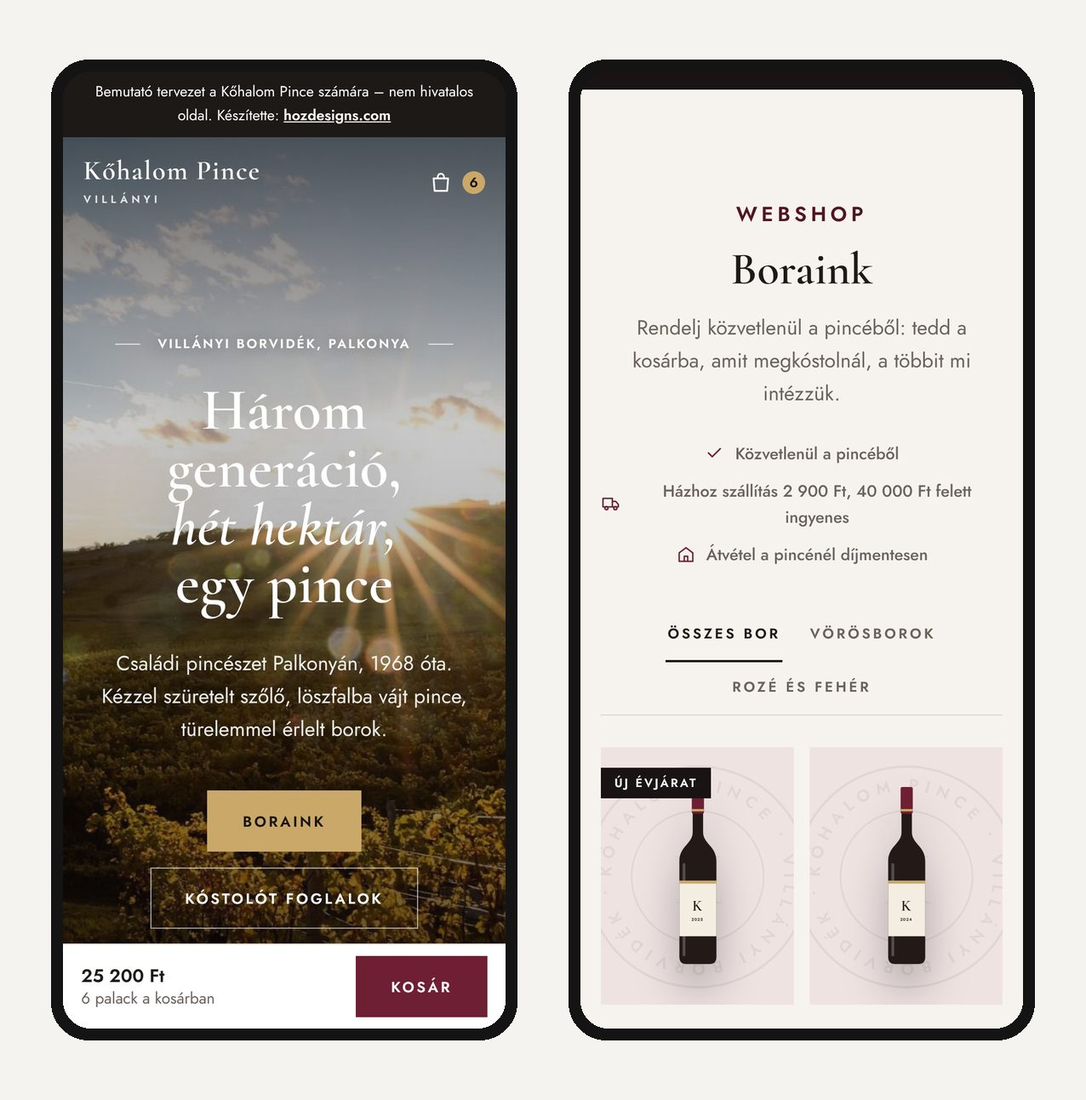
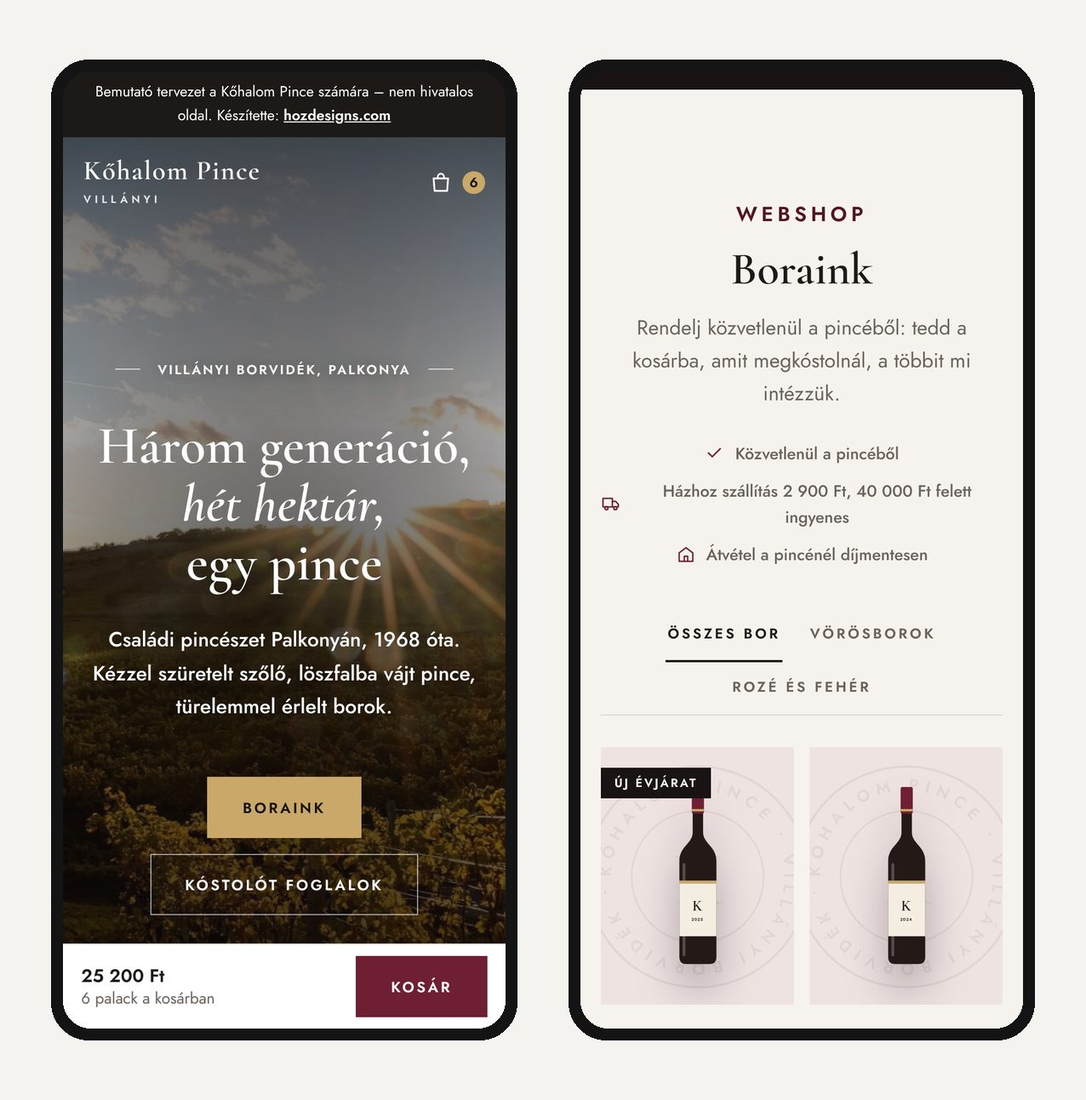
teszt-boraszat: nyitó térközei, térkép a kapcsolatnál, rendezett lábléc
Claude-Session: https://claude.ai/code/session_016Run1nACTgNtgLbjaBZxC9

Changed region(s): [[0.0306, 0.1856, 0.489, 0.8662], [0.0917, 0.7115, 0.1223, 0.7425]]

diff --git a/minta/teszt-boraszat/index.html b/minta/teszt-boraszat/index.html
@@ -159,19 +159,19 @@ footer b{color:var(--ink)}
 .bhead.solid .logo b{font-size:25px}
 
 /* nyitókép */
-.hero{position:relative;display:grid;place-items:center;text-align:center;min-height:max(100svh,700px);margin-top:-91px;padding:150px 24px 120px;color:#fff;isolation:isolate;overflow:hidden;background:var(--dark)}
+.hero{position:relative;display:grid;place-items:center;text-align:center;min-height:max(100svh,700px);margin-top:-91px;padding:170px 24px 130px;color:#fff;isolation:isolate;overflow:hidden;background:var(--dark)}
 .hero .bg{position:absolute;inset:0;z-index:-2}
 .hero .bg img{width:100%;height:100%;object-fit:cover;object-position:var(--pos,center);transform-origin:var(--pos,center);animation:hzoom 24s cubic-bezier(.2,.6,.3,1) both}
 @keyframes hzoom{from{transform:scale(1.14)}to{transform:scale(1)}}
-.hero::before{content:"";position:absolute;inset:0;z-index:-1;background:linear-gradient(180deg,rgba(12,9,8,.62) 0%,rgba(12,9,8,.22) 30%,rgba(12,9,8,.34) 62%,rgba(12,9,8,.82) 100%)}
+.hero::before{content:"";position:absolute;inset:0;z-index:-1;background:radial-gradient(75% 62% at 50% 54%,rgba(12,9,8,.5) 0%,rgba(12,9,8,.28) 55%,transparent 100%),linear-gradient(180deg,rgba(12,9,8,.66) 0%,rgba(12,9,8,.26) 30%,rgba(12,9,8,.36) 62%,rgba(12,9,8,.84) 100%)}
 .hero .c{max-width:1040px}
 .hero .lbl{display:inline-flex;align-items:center;gap:16px;color:#fff;text-shadow:0 1px 14px rgba(0,0,0,.5)}
 .hero .lbl::before,.hero .lbl::after{content:"";width:44px;height:1px;background:currentColor;opacity:.7}
-.hero h1{font-size:clamp(52px,8.4vw,132px);line-height:.98;margin-top:26px;text-wrap:balance;text-shadow:0 2px 50px rgba(0,0,0,.45)}
+.hero h1{font-size:clamp(46px,min(7.4vw,12.5vh),118px);line-height:1.08;margin-top:34px;text-wrap:balance;text-shadow:0 2px 50px rgba(0,0,0,.5)}
 .hero h1 span{display:block}
 .hero h1 .it{font-style:italic}
-.hero .lead{font-size:clamp(18px,1.6vw,21px);max-width:50ch;margin:30px auto 0;color:rgba(255,255,255,.92)}
-.hero .cta{display:flex;flex-wrap:wrap;justify-content:center;gap:14px;margin-top:40px}
+.hero .lead{font-size:clamp(18px,1.6vw,21px);line-height:1.65;font-weight:500;max-width:46ch;margin:40px auto 0;color:#fff;text-shadow:0 1px 18px rgba(0,0,0,.65)}
+.hero .cta{display:flex;flex-wrap:wrap;justify-content:center;gap:14px;margin-top:46px}
 .hero .c>*{animation:hrise 1s cubic-bezier(.2,.7,.2,1) both}
 .hero .c>*:nth-child(2){animation-delay:.15s}.hero .c>*:nth-child(3){animation-delay:.32s}.hero .c>*:nth-child(4){animation-delay:.46s}
 @keyframes hrise{from{opacity:0;transform:translateY(30px)}to{opacity:1;transform:none}}
@@ -369,14 +369,21 @@ footer b{color:var(--ink)}
 .k-bor .hours td{padding:13px 0}
 
 /* lábléc */
-.bfoot{background:var(--dark);color:rgba(255,255,255,.75);margin-top:70px;padding:80px 0 110px;font-size:15px}
-.bfoot .seal{width:96px;height:96px;color:var(--gold);margin:0 auto}
-.bfoot .name{text-align:center;font:var(--fhw) 34px/1 var(--fh);color:#fff;margin-top:20px}
-.bfoot .cols{display:grid;grid-template-columns:repeat(3,minmax(0,1fr));gap:40px;margin-top:56px;padding-top:44px;border-top:1px solid rgba(255,255,255,.16)}
-.bfoot h4{font:600 11.5px var(--fb);letter-spacing:.2em;text-transform:uppercase;color:var(--gold);margin-bottom:14px}
-.bfoot a{color:#fff}
-.bfoot ul{list-style:none;margin:0;padding:0;display:grid;gap:8px}
-.bfoot .legal{display:flex;flex-wrap:wrap;justify-content:space-between;gap:10px 30px;margin-top:50px;font-size:13px;color:rgba(255,255,255,.55)}
+.bfoot{background:var(--dark);color:rgba(255,255,255,.72);margin-top:90px;padding:88px 0 0;font-size:15px;border-top:0}
+.bfoot .wrap{display:block}
+.bfoot .cols{display:grid;grid-template-columns:1.5fr 1fr 1fr .8fr;gap:56px;align-items:start}
+.bfoot .id{display:grid;grid-template-columns:92px 1fr;gap:22px;align-items:center}
+.bfoot .seal{width:92px;height:92px;color:var(--gold);margin:0}
+.bfoot .name{font:var(--fhw) 32px/1.05 var(--fh);color:#fff;margin:0;text-align:left}
+.bfoot .tag{margin-top:8px;font:600 11px var(--fb);letter-spacing:.24em;text-transform:uppercase;color:rgba(255,255,255,.6)}
+.bfoot h4{font:600 11.5px var(--fb);letter-spacing:.2em;text-transform:uppercase;color:var(--gold);margin:6px 0 18px}
+.bfoot a{color:#fff;text-decoration:none;border-bottom:1px solid rgba(255,255,255,.3)}
+.bfoot a:hover{border-color:#fff}
+.bfoot ul{list-style:none;margin:0;padding:0;display:grid;gap:10px;line-height:1.5}
+.bfoot .hrs li{display:flex;justify-content:space-between;gap:16px;max-width:230px}
+.bfoot .hrs li span:last-child{color:#fff;font-variant-numeric:tabular-nums}
+.bfoot .legal{display:flex;flex-wrap:wrap;justify-content:space-between;gap:8px 30px;margin-top:72px;padding:24px 0 30px;border-top:1px solid rgba(255,255,255,.14);font-size:13px;color:rgba(255,255,255,.5)}
+.bfoot .legal a{color:rgba(255,255,255,.75)}
 
 /* 18+ kapu */
 .gate{position:fixed;inset:0;z-index:95;display:grid;place-items:center;padding:24px;background:color-mix(in srgb,var(--dark) 88%,transparent);-webkit-backdrop-filter:blur(10px);backdrop-filter:blur(10px)}
@@ -436,7 +443,9 @@ footer b{color:var(--ink)}
   .bhead nav.r a{display:none}
   .logo{justify-items:start}.logo b{font-size:24px}.logo small{font-size:9.5px}
   .cartbtn .t{display:none}
-  .hero{margin-top:-80px;padding:130px 20px 110px;min-height:max(100svh,640px)}
+  .hero{margin-top:-80px;padding:140px 20px 110px;min-height:max(100svh,640px)}
+  .hero h1{font-size:clamp(42px,12vw,64px);line-height:1.1}
+  .hero .lead{margin-top:28px}
   .hero .seal{display:none}
   .hero .lbl{letter-spacing:.14em;font-size:11.5px}
   .hero .lbl::before,.hero .lbl::after{width:22px}
@@ -455,8 +464,11 @@ footer b{color:var(--ink)}
   .tbook{grid-template-columns:1fr;gap:32px;padding:26px 18px}
   .estate{grid-template-columns:1fr;gap:40px;padding-top:80px}
   .ggrid{grid-template-columns:repeat(2,minmax(0,1fr));grid-auto-rows:150px;gap:8px}
-  .bfoot .cols{grid-template-columns:1fr;gap:30px;text-align:center}
-  .bfoot{padding-top:60px}
+  .bfoot{padding-top:60px;margin-top:60px}
+  .bfoot .cols{grid-template-columns:1fr 1fr;gap:40px 24px}
+  .bfoot .id{grid-column:1/-1;grid-template-columns:76px 1fr}.bfoot .seal{width:76px;height:76px}
+  .bfoot .cols>div:nth-child(2){grid-column:1/-1}
+  .bfoot .legal{flex-direction:column;margin-top:48px;padding-bottom:110px}
   .tl{grid-template-columns:1fr;gap:16px;padding:32px 0}.tl .y{font-size:50px}
   .person{grid-template-columns:1fr;gap:26px}.person:nth-of-type(even) .ph{order:0}.person .ph{max-width:360px}.person h3{font-size:38px}
   .prose{padding-top:64px}.prose p{font-size:18px}
@@ -464,6 +476,22 @@ footer b{color:var(--ink)}
   .endcta{padding-top:80px}
   .gate h2{font-size:36px}
 }
+/* térkép: csak kattintásra tölt be */
+.mapbox{position:relative;margin-top:56px;height:440px;background:var(--acct);overflow:hidden;display:grid;place-items:center;text-align:center}
+.mapbox::before{content:"";position:absolute;inset:0;opacity:.5;background:
+  linear-gradient(115deg,transparent 46%,var(--line) 46%,var(--line) 47.2%,transparent 47.2%),
+  linear-gradient(28deg,transparent 58%,var(--line) 58%,var(--line) 59%,transparent 59%),
+  linear-gradient(160deg,transparent 30%,var(--line) 30%,var(--line) 30.8%,transparent 30.8%),
+  linear-gradient(75deg,transparent 70%,var(--line) 70%,var(--line) 70.7%,transparent 70.7%)}
+.mapbox .in{position:relative;max-width:640px;padding:24px}
+.mapbox .ico{width:38px;height:38px;color:var(--acc);margin:0 auto}
+.mapbox b{display:block;font:var(--fhw) 30px/1.15 var(--fh);margin-top:12px}
+.mapbox .row{display:flex;flex-wrap:wrap;justify-content:center;gap:10px;margin-top:22px}
+.mapbox .btn.line{border-color:var(--ink)}
+.mapbox small{display:block;color:var(--ink2);font-size:13px;margin:16px auto 0;line-height:1.5;max-width:46ch}
+.mapbox iframe{position:absolute;inset:0;width:100%;height:100%;border:0}
+@media (max-width:900px){.mapbox{height:380px;margin-top:40px}}
+@media (max-height:780px) and (min-width:901px){.hero{padding-top:150px;padding-bottom:96px}.hero h1{margin-top:22px}.hero .lead{margin-top:26px}.hero .cta{margin-top:30px}.hero .cue{display:none}}
 </style>
 </head>
 <body class="k-bor s-alap t-alap">
@@ -525,20 +553,20 @@ footer b{color:var(--ink)}
 <section class="wrap sec" id="kapcsolat">
   <div class="visitbox"><div class="chead"><p class="lbl">Kapcsolat</p><h2>Látogass el hozzánk</h2></div>
     <div class="visit"><table class="hours"><tbody><tr class="closed"><td>Hétfő</td><td>Zárva</td></tr><tr class="closed"><td>Kedd</td><td>Zárva</td></tr><tr class="closed"><td>Szerda</td><td>Zárva</td></tr><tr><td>Csütörtök</td><td>12:00–18:00</td></tr><tr><td>Péntek</td><td>12:00–20:00</td></tr><tr><td>Szombat</td><td>10:00–20:00</td></tr><tr><td>Vasárnap</td><td>10:00–16:00</td></tr></tbody></table><div class="clist"><div><svg class="ico" aria-hidden="true"><use href="#i-pin"/></svg><span>7771 Palkonya, Pincesor 14.<br><a href="https://www.google.com/maps/search/?api=1&amp;query=7771+Palkonya,+Pincesor+14." target="_blank" rel="noopener">Útvonaltervezés</a></span></div><div><svg class="ico" aria-hidden="true"><use href="#i-phone"/></svg><a href="tel:+36301234567">+36 30 123 4567</a></div><div><svg class="ico" aria-hidden="true"><use href="#i-mail"/></svg><a href="mailto:pince@kohalompince.example">pince@kohalompince.example</a></div></div></div>
+    <div class="mapbox"><div class="in"><svg class="ico" aria-hidden="true"><use href="#i-pin"/></svg><b>7771 Palkonya, Pincesor 14.</b><div class="row"><button type="button" class="btn" data-map="7771 Palkonya, Pincesor 14.">Térkép betöltése</button><a class="btn line" href="https://www.google.com/maps/search/?api=1&amp;query=7771+Palkonya,+Pincesor+14." target="_blank" rel="noopener">Útvonaltervezés</a></div><small>A térképet a Google szolgáltatja. Csak a gombra kattintva tölt be, ekkor a Google sütiket használhat.</small></div></div>
   </div>
 </section>
 </main>
 <div class="mbar"><p data-mcart data-def="&lt;b&gt;2 700 Ft-tól&lt;/b&gt;&lt;br&gt;&lt;span class=&quot;muted&quot;&gt;közvetlenül a pincéből&lt;/span&gt;"><b>2 700 Ft-tól</b><br><span class="muted">közvetlenül a pincéből</span></p><a class="btn" href="#borok" data-cart data-mlink>Borlap</a></div>
 <footer class="bfoot">
   <div class="wrap">
-    <svg class="seal" viewBox="0 0 200 200" aria-hidden="true"><defs><path id="sealp" d="M100 100m-76 0a76 76 0 1 1 152 0a76 76 0 1 1-152 0"/></defs><circle cx="100" cy="100" r="97" fill="none" stroke="currentColor" stroke-width="2"/><circle cx="100" cy="100" r="58" fill="none" stroke="currentColor" stroke-width="1.5"/><text font-size="14.5"><textPath href="#sealp" textLength="468" lengthAdjust="spacing">KŐHALOM PINCE • VILLÁNYI BORVIDÉK •</textPath></text><text class="m" x="100" y="123" text-anchor="middle" font-size="66">K</text></svg>
-    <p class="name">Kőhalom Pince</p>
     <div class="cols">
-      <div><h4>Látogatás</h4><ul><li>7771 Palkonya, Pincesor 14.</li><li>Csütörtök: 12:00–18:00</li><li>Péntek: 12:00–20:00</li><li>Szombat: 10:00–20:00</li><li>Vasárnap: 10:00–16:00</li></ul></div>
-      <div><h4>Elérhetőség</h4><ul><li><a href="tel:+36301234567">+36 30 123 4567</a></li><li><a href="mailto:pince@kohalompince.example">pince@kohalompince.example</a></li></ul></div>
-      <div><h4>Az oldalon</h4><ul><li><a href="#borok">Boraink</a></li><li><a href="#kostolo">Kóstoló</a></li><li><a href="tortenetunk/">Történetünk</a></li></ul></div>
+      <div class="id"><svg class="seal" viewBox="0 0 200 200" aria-hidden="true"><defs><path id="sealp" d="M100 100m-76 0a76 76 0 1 1 152 0a76 76 0 1 1-152 0"/></defs><circle cx="100" cy="100" r="97" fill="none" stroke="currentColor" stroke-width="2"/><circle cx="100" cy="100" r="58" fill="none" stroke="currentColor" stroke-width="1.5"/><text font-size="14.5"><textPath href="#sealp" textLength="468" lengthAdjust="spacing">KŐHALOM PINCE • VILLÁNYI BORVIDÉK •</textPath></text><text class="m" x="100" y="123" text-anchor="middle" font-size="66">K</text></svg><div><p class="name">Kőhalom Pince</p><p class="tag">Villányi borvidék, Palkonya</p></div></div>
+      <div><h4>Nyitvatartás</h4><ul class="hrs"><li><span>Hétfő</span><span>zárva</span></li><li><span>Kedd</span><span>zárva</span></li><li><span>Szerda</span><span>zárva</span></li><li><span>Csütörtök</span><span>12:00–18:00</span></li><li><span>Péntek</span><span>12:00–20:00</span></li><li><span>Szombat</span><span>10:00–20:00</span></li><li><span>Vasárnap</span><span>10:00–16:00</span></li></ul></div>
+      <div><h4>Elérhetőség</h4><ul><li>7771 Palkonya, Pincesor 14.</li><li><a href="tel:+36301234567">+36 30 123 4567</a></li><li><a href="mailto:pince@kohalompince.example">pince@kohalompince.example</a></li></ul></div>
+      <div><h4>Az oldalon</h4><ul><li><a href="#borok">Boraink</a></li><li><a href="#kostolo">Kóstoló</a></li><li><a href="tortenetunk/">Történetünk</a></li><li><a href="#kapcsolat">Kapcsolat</a></li></ul></div>
     </div>
-    <div class="legal"><span>Fotók: Wikimedia Commons (CC BY-SA) – helykitöltő mintaképek</span><span>Csak 18 éven felülieknek.</span><span>Weboldal-tervezet: <a href="https://hozdesigns.com">hozdesigns.com</a></span></div>
+    <div class="legal"><span>© Kőhalom Pince · Csak 18 éven felülieknek.</span><span>Fotók: Wikimedia Commons (CC BY-SA) – helykitöltő mintaképek</span><span>Weboldal-tervezet: <a href="https://hozdesigns.com">hozdesigns.com</a></span></div>
   </div>
 </footer>
 <div class="lb" role="dialog" aria-modal="true" aria-label="Fotók" data-lbox>
@@ -661,6 +689,13 @@ var HZ = (function () {
     return null;
   }
   var st = openNow(); $$('[data-open]').forEach(function (e) { if (st) e.textContent = st; else e.hidden = true });
+
+  /* térkép: külső beágyazás csak kattintásra (addig nincs Google-kérés) */
+  document.addEventListener('click', function (e) {
+    var b = e.target.closest('[data-map]'); if (!b) return; var box = b.closest('.mapbox'), f = document.createElement('iframe');
+    f.src = 'https://www.google.com/maps?q=' + encodeURIComponent(b.getAttribute('data-map')) + '&output=embed'; f.title = 'Térkép'; f.loading = 'lazy'; f.referrerPolicy = 'no-referrer-when-downgrade';
+    box.innerHTML = ''; box.appendChild(f);
+  });
 
   /* űrlap-ellenőrzés: az első hibás mezőre áll, a hibát szövegesen kiírja */
   function check(form, hint) {

diff --git a/minta/teszt-boraszat/tortenetunk/index.html b/minta/teszt-boraszat/tortenetunk/index.html
@@ -159,19 +159,19 @@ footer b{color:var(--ink)}
 .bhead.solid .logo b{font-size:25px}
 
 /* nyitókép */
-.hero{position:relative;display:grid;place-items:center;text-align:center;min-height:max(100svh,700px);margin-top:-91px;padding:150px 24px 120px;color:#fff;isolation:isolate;overflow:hidden;background:var(--dark)}
+.hero{position:relative;display:grid;place-items:center;text-align:center;min-height:max(100svh,700px);margin-top:-91px;padding:170px 24px 130px;color:#fff;isolation:isolate;overflow:hidden;background:var(--dark)}
 .hero .bg{position:absolute;inset:0;z-index:-2}
 .hero .bg img{width:100%;height:100%;object-fit:cover;object-position:var(--pos,center);transform-origin:var(--pos,center);animation:hzoom 24s cubic-bezier(.2,.6,.3,1) both}
 @keyframes hzoom{from{transform:scale(1.14)}to{transform:scale(1)}}
-.hero::before{content:"";position:absolute;inset:0;z-index:-1;background:linear-gradient(180deg,rgba(12,9,8,.62) 0%,rgba(12,9,8,.22) 30%,rgba(12,9,8,.34) 62%,rgba(12,9,8,.82) 100%)}
+.hero::before{content:"";position:absolute;inset:0;z-index:-1;background:radial-gradient(75% 62% at 50% 54%,rgba(12,9,8,.5) 0%,rgba(12,9,8,.28) 55%,transparent 100%),linear-gradient(180deg,rgba(12,9,8,.66) 0%,rgba(12,9,8,.26) 30%,rgba(12,9,8,.36) 62%,rgba(12,9,8,.84) 100%)}
 .hero .c{max-width:1040px}
 .hero .lbl{display:inline-flex;align-items:center;gap:16px;color:#fff;text-shadow:0 1px 14px rgba(0,0,0,.5)}
 .hero .lbl::before,.hero .lbl::after{content:"";width:44px;height:1px;background:currentColor;opacity:.7}
-.hero h1{font-size:clamp(52px,8.4vw,132px);line-height:.98;margin-top:26px;text-wrap:balance;text-shadow:0 2px 50px rgba(0,0,0,.45)}
+.hero h1{font-size:clamp(46px,min(7.4vw,12.5vh),118px);line-height:1.08;margin-top:34px;text-wrap:balance;text-shadow:0 2px 50px rgba(0,0,0,.5)}
 .hero h1 span{display:block}
 .hero h1 .it{font-style:italic}
-.hero .lead{font-size:clamp(18px,1.6vw,21px);max-width:50ch;margin:30px auto 0;color:rgba(255,255,255,.92)}
-.hero .cta{display:flex;flex-wrap:wrap;justify-content:center;gap:14px;margin-top:40px}
+.hero .lead{font-size:clamp(18px,1.6vw,21px);line-height:1.65;font-weight:500;max-width:46ch;margin:40px auto 0;color:#fff;text-shadow:0 1px 18px rgba(0,0,0,.65)}
+.hero .cta{display:flex;flex-wrap:wrap;justify-content:center;gap:14px;margin-top:46px}
 .hero .c>*{animation:hrise 1s cubic-bezier(.2,.7,.2,1) both}
 .hero .c>*:nth-child(2){animation-delay:.15s}.hero .c>*:nth-child(3){animation-delay:.32s}.hero .c>*:nth-child(4){animation-delay:.46s}
 @keyframes hrise{from{opacity:0;transform:translateY(30px)}to{opacity:1;transform:none}}
@@ -369,14 +369,21 @@ footer b{color:var(--ink)}
 .k-bor .hours td{padding:13px 0}
 
 /* lábléc */
-.bfoot{background:var(--dark);color:rgba(255,255,255,.75);margin-top:70px;padding:80px 0 110px;font-size:15px}
-.bfoot .seal{width:96px;height:96px;color:var(--gold);margin:0 auto}
-.bfoot .name{text-align:center;font:var(--fhw) 34px/1 var(--fh);color:#fff;margin-top:20px}
-.bfoot .cols{display:grid;grid-template-columns:repeat(3,minmax(0,1fr));gap:40px;margin-top:56px;padding-top:44px;border-top:1px solid rgba(255,255,255,.16)}
-.bfoot h4{font:600 11.5px var(--fb);letter-spacing:.2em;text-transform:uppercase;color:var(--gold);margin-bottom:14px}
-.bfoot a{color:#fff}
-.bfoot ul{list-style:none;margin:0;padding:0;display:grid;gap:8px}
-.bfoot .legal{display:flex;flex-wrap:wrap;justify-content:space-between;gap:10px 30px;margin-top:50px;font-size:13px;color:rgba(255,255,255,.55)}
+.bfoot{background:var(--dark);color:rgba(255,255,255,.72);margin-top:90px;padding:88px 0 0;font-size:15px;border-top:0}
+.bfoot .wrap{display:block}
+.bfoot .cols{display:grid;grid-template-columns:1.5fr 1fr 1fr .8fr;gap:56px;align-items:start}
+.bfoot .id{display:grid;grid-template-columns:92px 1fr;gap:22px;align-items:center}
+.bfoot .seal{width:92px;height:92px;color:var(--gold);margin:0}
+.bfoot .name{font:var(--fhw) 32px/1.05 var(--fh);color:#fff;margin:0;text-align:left}
+.bfoot .tag{margin-top:8px;font:600 11px var(--fb);letter-spacing:.24em;text-transform:uppercase;color:rgba(255,255,255,.6)}
+.bfoot h4{font:600 11.5px var(--fb);letter-spacing:.2em;text-transform:uppercase;color:var(--gold);margin:6px 0 18px}
+.bfoot a{color:#fff;text-decoration:none;border-bottom:1px solid rgba(255,255,255,.3)}
+.bfoot a:hover{border-color:#fff}
+.bfoot ul{list-style:none;margin:0;padding:0;display:grid;gap:10px;line-height:1.5}
+.bfoot .hrs li{display:flex;justify-content:space-between;gap:16px;max-width:230px}
+.bfoot .hrs li span:last-child{color:#fff;font-variant-numeric:tabular-nums}
+.bfoot .legal{display:flex;flex-wrap:wrap;justify-content:space-between;gap:8px 30px;margin-top:72px;padding:24px 0 30px;border-top:1px solid rgba(255,255,255,.14);font-size:13px;color:rgba(255,255,255,.5)}
+.bfoot .legal a{color:rgba(255,255,255,.75)}
 
 /* 18+ kapu */
 .gate{position:fixed;inset:0;z-index:95;display:grid;place-items:center;padding:24px;background:color-mix(in srgb,var(--dark) 88%,transparent);-webkit-backdrop-filter:blur(10px);backdrop-filter:blur(10px)}
@@ -436,7 +443,9 @@ footer b{color:var(--ink)}
   .bhead nav.r a{display:none}
   .logo{justify-items:start}.logo b{font-size:24px}.logo small{font-size:9.5px}
   .cartbtn .t{display:none}
-  .hero{margin-top:-80px;padding:130px 20px 110px;min-height:max(100svh,640px)}
+  .hero{margin-top:-80px;padding:140px 20px 110px;min-height:max(100svh,640px)}
+  .hero h1{font-size:clamp(42px,12vw,64px);line-height:1.1}
+  .hero .lead{margin-top:28px}
   .hero .seal{display:none}
   .hero .lbl{letter-spacing:.14em;font-size:11.5px}
   .hero .lbl::before,.hero .lbl::after{width:22px}
@@ -455,8 +464,11 @@ footer b{color:var(--ink)}
   .tbook{grid-template-columns:1fr;gap:32px;padding:26px 18px}
   .estate{grid-template-columns:1fr;gap:40px;padding-top:80px}
   .ggrid{grid-template-columns:repeat(2,minmax(0,1fr));grid-auto-rows:150px;gap:8px}
-  .bfoot .cols{grid-template-columns:1fr;gap:30px;text-align:center}
-  .bfoot{padding-top:60px}
+  .bfoot{padding-top:60px;margin-top:60px}
+  .bfoot .cols{grid-template-columns:1fr 1fr;gap:40px 24px}
+  .bfoot .id{grid-column:1/-1;grid-template-columns:76px 1fr}.bfoot .seal{width:76px;height:76px}
+  .bfoot .cols>div:nth-child(2){grid-column:1/-1}
+  .bfoot .legal{flex-direction:column;margin-top:48px;padding-bottom:110px}
   .tl{grid-template-columns:1fr;gap:16px;padding:32px 0}.tl .y{font-size:50px}
   .person{grid-template-columns:1fr;gap:26px}.person:nth-of-type(even) .ph{order:0}.person .ph{max-width:360px}.person h3{font-size:38px}
   .prose{padding-top:64px}.prose p{font-size:18px}
@@ -464,6 +476,22 @@ footer b{color:var(--ink)}
   .endcta{padding-top:80px}
   .gate h2{font-size:36px}
 }
+/* térkép: csak kattintásra tölt be */
+.mapbox{position:relative;margin-top:56px;height:440px;background:var(--acct);overflow:hidden;display:grid;place-items:center;text-align:center}
+.mapbox::before{content:"";position:absolute;inset:0;opacity:.5;background:
+  linear-gradient(115deg,transparent 46%,var(--line) 46%,var(--line) 47.2%,transparent 47.2%),
+  linear-gradient(28deg,transparent 58%,var(--line) 58%,var(--line) 59%,transparent 59%),
+  linear-gradient(160deg,transparent 30%,var(--line) 30%,var(--line) 30.8%,transparent 30.8%),
+  linear-gradient(75deg,transparent 70%,var(--line) 70%,var(--line) 70.7%,transparent 70.7%)}
+.mapbox .in{position:relative;max-width:640px;padding:24px}
+.mapbox .ico{width:38px;height:38px;color:var(--acc);margin:0 auto}
+.mapbox b{display:block;font:var(--fhw) 30px/1.15 var(--fh);margin-top:12px}
+.mapbox .row{display:flex;flex-wrap:wrap;justify-content:center;gap:10px;margin-top:22px}
+.mapbox .btn.line{border-color:var(--ink)}
+.mapbox small{display:block;color:var(--ink2);font-size:13px;margin:16px auto 0;line-height:1.5;max-width:46ch}
+.mapbox iframe{position:absolute;inset:0;width:100%;height:100%;border:0}
+@media (max-width:900px){.mapbox{height:380px;margin-top:40px}}
+@media (max-height:780px) and (min-width:901px){.hero{padding-top:150px;padding-bottom:96px}.hero h1{margin-top:22px}.hero .lead{margin-top:26px}.hero .cta{margin-top:30px}.hero .cue{display:none}}
 </style>
 </head>
 <body class="k-bor s-alap t-alap sub">
@@ -490,14 +518,13 @@ footer b{color:var(--ink)}
 <div class="mbar"><p><b>2 700 Ft-tól</b><br><span class="muted">közvetlenül a pincéből</span></p><a class="btn" href="#borok">Borlap</a></div>
 <footer class="bfoot">
   <div class="wrap">
-    <svg class="seal" viewBox="0 0 200 200" aria-hidden="true"><defs><path id="sealp" d="M100 100m-76 0a76 76 0 1 1 152 0a76 76 0 1 1-152 0"/></defs><circle cx="100" cy="100" r="97" fill="none" stroke="currentColor" stroke-width="2"/><circle cx="100" cy="100" r="58" fill="none" stroke="currentColor" stroke-width="1.5"/><text font-size="14.5"><textPath href="#sealp" textLength="468" lengthAdjust="spacing">KŐHALOM PINCE • VILLÁNYI BORVIDÉK •</textPath></text><text class="m" x="100" y="123" text-anchor="middle" font-size="66">K</text></svg>
-    <p class="name">Kőhalom Pince</p>
     <div class="cols">
-      <div><h4>Látogatás</h4><ul><li>7771 Palkonya, Pincesor 14.</li><li>Csütörtök: 12:00–18:00</li><li>Péntek: 12:00–20:00</li><li>Szombat: 10:00–20:00</li><li>Vasárnap: 10:00–16:00</li></ul></div>
-      <div><h4>Elérhetőség</h4><ul><li><a href="tel:+36301234567">+36 30 123 4567</a></li><li><a href="mailto:pince@kohalompince.example">pince@kohalompince.example</a></li></ul></div>
-      <div><h4>Az oldalon</h4><ul><li><a href="#borok">Boraink</a></li><li><a href="#kostolo">Kóstoló</a></li><li><a href="tortenetunk/">Történetünk</a></li></ul></div>
+      <div class="id"><svg class="seal" viewBox="0 0 200 200" aria-hidden="true"><defs><path id="sealp" d="M100 100m-76 0a76 76 0 1 1 152 0a76 76 0 1 1-152 0"/></defs><circle cx="100" cy="100" r="97" fill="none" stroke="currentColor" stroke-width="2"/><circle cx="100" cy="100" r="58" fill="none" stroke="currentColor" stroke-width="1.5"/><text font-size="14.5"><textPath href="#sealp" textLength="468" lengthAdjust="spacing">KŐHALOM PINCE • VILLÁNYI BORVIDÉK •</textPath></text><text class="m" x="100" y="123" text-anchor="middle" font-size="66">K</text></svg><div><p class="name">Kőhalom Pince</p><p class="tag">Villányi borvidék, Palkonya</p></div></div>
+      <div><h4>Nyitvatartás</h4><ul class="hrs"><li><span>Hétfő</span><span>zárva</span></li><li><span>Kedd</span><span>zárva</span></li><li><span>Szerda</span><span>zárva</span></li><li><span>Csütörtök</span><span>12:00–18:00</span></li><li><span>Péntek</span><span>12:00–20:00</span></li><li><span>Szombat</span><span>10:00–20:00</span></li><li><span>Vasárnap</span><span>10:00–16:00</span></li></ul></div>
+      <div><h4>Elérhetőség</h4><ul><li>7771 Palkonya, Pincesor 14.</li><li><a href="tel:+36301234567">+36 30 123 4567</a></li><li><a href="mailto:pince@kohalompince.example">pince@kohalompince.example</a></li></ul></div>
+      <div><h4>Az oldalon</h4><ul><li><a href="#borok">Boraink</a></li><li><a href="#kostolo">Kóstoló</a></li><li><a href="tortenetunk/">Történetünk</a></li><li><a href="#kapcsolat">Kapcsolat</a></li></ul></div>
     </div>
-    <div class="legal"><span>Fotók: Wikimedia Commons (CC BY-SA) – helykitöltő mintaképek</span><span>Csak 18 éven felülieknek.</span><span>Weboldal-tervezet: <a href="https://hozdesigns.com">hozdesigns.com</a></span></div>
+    <div class="legal"><span>© Kőhalom Pince · Csak 18 éven felülieknek.</span><span>Fotók: Wikimedia Commons (CC BY-SA) – helykitöltő mintaképek</span><span>Weboldal-tervezet: <a href="https://hozdesigns.com">hozdesigns.com</a></span></div>
   </div>
 </footer>
 <div class="lb" role="dialog" aria-modal="true" aria-label="Fotók" data-lbox>
@@ -581,6 +608,13 @@ var HZ = (function () {
     return null;
   }
   var st = openNow(); $$('[data-open]').forEach(function (e) { if (st) e.textContent = st; else e.hidden = true });
+
+  /* térkép: külső beágyazás csak kattintásra (addig nincs Google-kérés) */
+  document.addEventListener('click', function (e) {
+    var b = e.target.closest('[data-map]'); if (!b) return; var box = b.closest('.mapbox'), f = document.createElement('iframe');
+    f.src = 'https://www.google.com/maps?q=' + encodeURIComponent(b.getAttribute('data-map')) + '&output=embed'; f.title = 'Térkép'; f.loading = 'lazy'; f.referrerPolicy = 'no-referrer-when-downgrade';
+    box.innerHTML = ''; box.appendChild(f);
+  });
 
   /* űrlap-ellenőrzés: az első hibás mezőre áll, a hibát szövegesen kiírja */
   function check(form, hint) {
